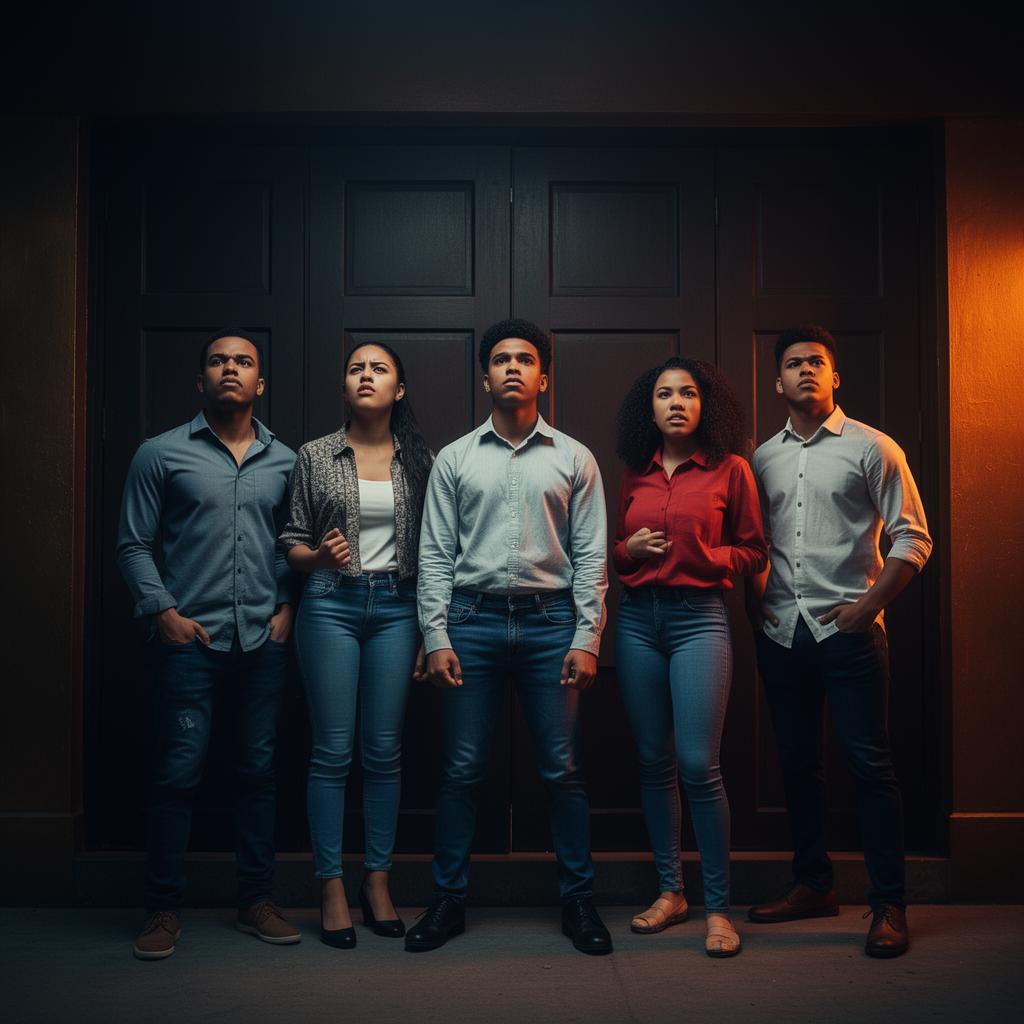
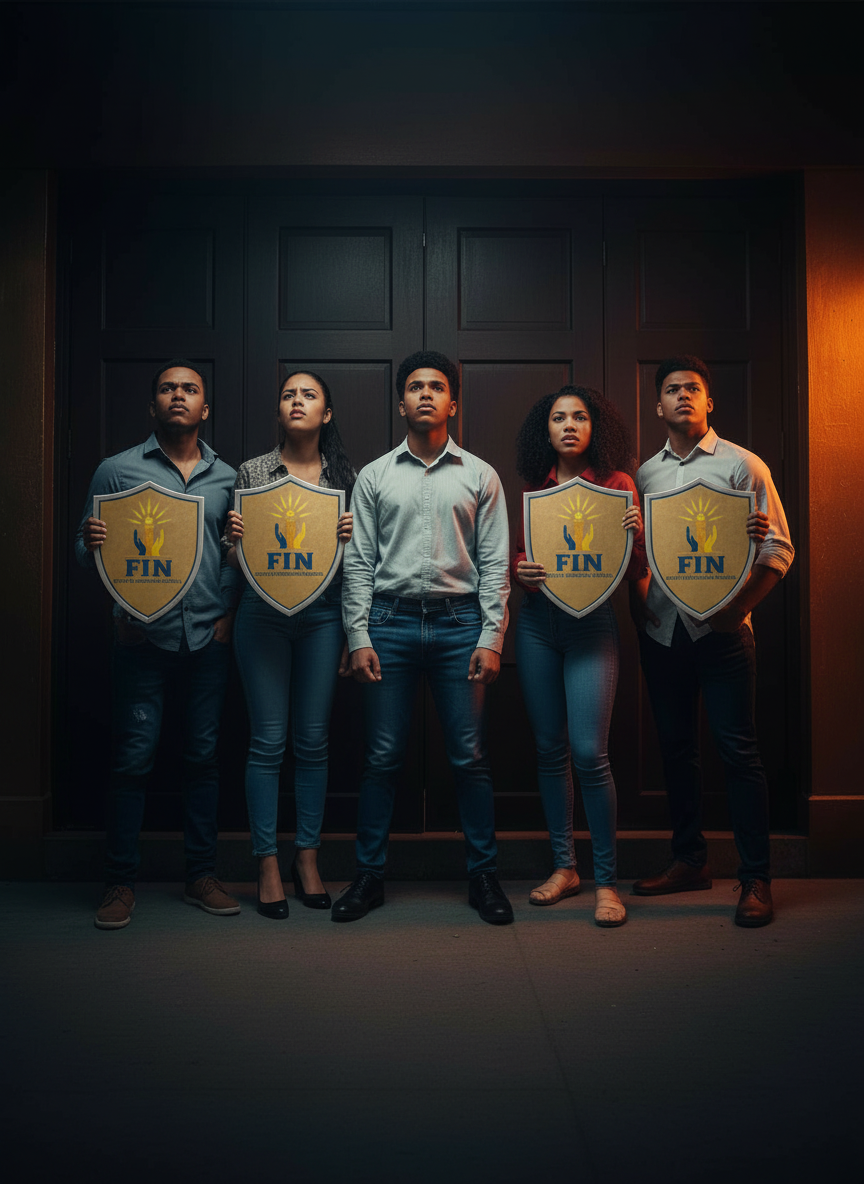
Changes

diff --git a/src/components/SplashScreen.tsx b/src/components/SplashScreen.tsx
@@ -1,0 +1,137 @@
+import { motion } from 'framer-motion';
+import { useEffect } from 'react';
+import finLogo from '@/assets/fin-logo.png';
+
+interface SplashScreenProps {
+  onComplete: () => void;
+}
+
+export const SplashScreen = ({ onComplete }: SplashScreenProps) => {
+  useEffect(() => {
+    const timer = setTimeout(() => {
+      onComplete();
+    }, 3000);
+
+    return () => clearTimeout(timer);
+  }, [onComplete]);
+
+  return (
+    <div className="fixed inset-0 bg-background flex flex-col items-center justify-center overflow-hidden">
+      {/* Background gradient */}
+      <div className="absolute inset-0 bg-gradient-carbon" />
+      
+      {/* Animated light rays */}
+      <div className="absolute inset-0 overflow-hidden pointer-events-none">
+        {[...Array(8)].map((_, i) => (
+          <motion.div
+            key={i}
+            className="absolute top-1/2 left-1/2 w-2 h-[200%] bg-gradient-to-t from-transparent via-primary/20 to-transparent origin-bottom"
+            style={{
+              rotate: `${i * 45}deg`,
+              translateX: '-50%',
+            }}
+            animate={{
+              opacity: [0.3, 0.6, 0.3],
+            }}
+            transition={{
+              duration: 2,
+              repeat: Infinity,
+              delay: i * 0.2,
+            }}
+          />
+        ))}
+      </div>
+
+      {/* Animated sparks */}
+      <div className="absolute inset-0 overflow-hidden pointer-events-none">
+        {[...Array(15)].map((_, i) => (
+          <motion.div
+            key={i}
+            className="absolute w-1 h-1 bg-bronze rounded-full"
+            style={{
+              left: `${Math.random() * 100}%`,
+              top: `${Math.random() * 100}%`,
+            }}
+            animate={{
+              opacity: [0, 1, 0],
+              scale: [0, 1.5, 0],
+            }}
+            transition={{
+              duration: 2 + Math.random() * 2,
+              repeat: Infinity,
+              delay: Math.random() * 2,
+            }}
+          />
+        ))}
+      </div>
+
+      {/* Logo container */}
+      <motion.div
+        className="relative z-10 flex flex-col items-center"
+        initial={{ opacity: 0, scale: 0.8 }}
+        animate={{ opacity: 1, scale: 1 }}
+        transition={{ duration: 0.8, ease: 'easeOut' }}
+      >
+        {/* Logo */}
+        <motion.div
+          className="w-64 h-64 md:w-80 md:h-80 relative"
+          animate={{
+            y: [0, -10, 0],
+          }}
+          transition={{
+            duration: 3,
+            repeat: Infinity,
+            ease: 'easeInOut',
+          }}
+        >
+          {/* Glow effect behind logo */}
+          <motion.div
+            className="absolute inset-0 rounded-full bg-primary/30 blur-3xl"
+            animate={{
+              scale: [1, 1.2, 1],
+              opacity: [0.3, 0.5, 0.3],
+            }}
+            transition={{
+              duration: 2,
+              repeat: Infinity,
+              ease: 'easeInOut',
+            }}
+          />
+          
+          <img 
+            src={finLogo} 
+            alt="FIN - Frente de Integridad Nacional" 
+            className="w-full h-full object-contain relative z-10"
+          />
+        </motion.div>
+
+        {/* Loading indicator */}
+        <motion.div
+          className="mt-8 flex gap-2"
+          initial={{ opacity: 0 }}
+          animate={{ opacity: 1 }}
+          transition={{ delay: 0.5 }}
+        >
+          {[0, 1, 2].map((i) => (
+            <motion.div
+              key={i}
+              className="w-3 h-3 rounded-full bg-bronze"
+              animate={{
+                scale: [1, 1.3, 1],
+                opacity: [0.5, 1, 0.5],
+              }}
+              transition={{
+                duration: 0.8,
+                repeat: Infinity,
+                delay: i * 0.2,
+              }}
+            />
+          ))}
+        </motion.div>
+      </motion.div>
+
+      {/* Bottom bronze accent */}
+      <div className="absolute bottom-0 left-0 right-0 h-1 bg-gradient-bronze" />
+    </div>
+  );
+};

diff --git a/src/pages/Index.tsx b/src/pages/Index.tsx
@@ -1,5 +1,6 @@
 import { useRegistration } from '@/hooks/useRegistration';
 import { useAuth } from '@/hooks/useAuth';
+import { SplashScreen } from '@/components/SplashScreen';
 import { OnboardingSlides } from '@/components/OnboardingSlides';
 import { WelcomeVideo } from '@/components/WelcomeVideo';
 import { RegistrationForm } from '@/components/RegistrationForm';
@@ -9,11 +10,11 @@ import { Navigate } from 'react-router-dom';
 import { motion } from 'framer-motion';
 
 const Index = () => {
-  const { currentStep } = useRegistration();
+  const { currentStep, setStep } = useRegistration();
   const { isAuthenticated, loading } = useAuth();
 
-  // Show loading state only after onboarding
-  if (loading && currentStep !== 'onboarding') {
+  // Show loading state only after splash and onboarding
+  if (loading && currentStep !== 'splash' && currentStep !== 'onboarding') {
     return (
       <div className="min-h-screen bg-background flex items-center justify-center">
         <div className="absolute inset-0 bg-gradient-carbon" />
@@ -26,7 +27,12 @@ const Index = () => {
     );
   }
 
-  // Show onboarding first (before auth)
+  // Show splash screen first (before everything)
+  if (currentStep === 'splash') {
+    return <SplashScreen onComplete={() => setStep('onboarding')} />;
+  }
+
+  // Show onboarding second (before auth)
   if (currentStep === 'onboarding') {
     return <OnboardingSlides />;
   }

diff --git a/src/hooks/useRegistration.ts b/src/hooks/useRegistration.ts
@@ -21,7 +21,7 @@ export interface RegistrationData {
 }
 
 interface RegistrationState {
-  currentStep: 'onboarding' | 'welcome' | 'registration' | 'staircase' | 'passport';
+  currentStep: 'splash' | 'onboarding' | 'welcome' | 'registration' | 'staircase' | 'passport';
   staircaseStep: number;
   data: RegistrationData;
   setStep: (step: RegistrationState['currentStep']) => void;
@@ -43,7 +43,7 @@ const initialData: RegistrationData = {
 export const useRegistration = create<RegistrationState>()(
   persist(
     (set) => ({
-      currentStep: 'onboarding',
+      currentStep: 'splash',
       staircaseStep: 1,
       data: initialData,
       setStep: (step) => set({ currentStep: step }),
@@ -54,7 +54,7 @@ export const useRegistration = create<RegistrationState>()(
         })),
       resetDemo: () =>
         set({
-          currentStep: 'onboarding',
+          currentStep: 'splash',
           staircaseStep: 1,
           data: initialData,
         }),
